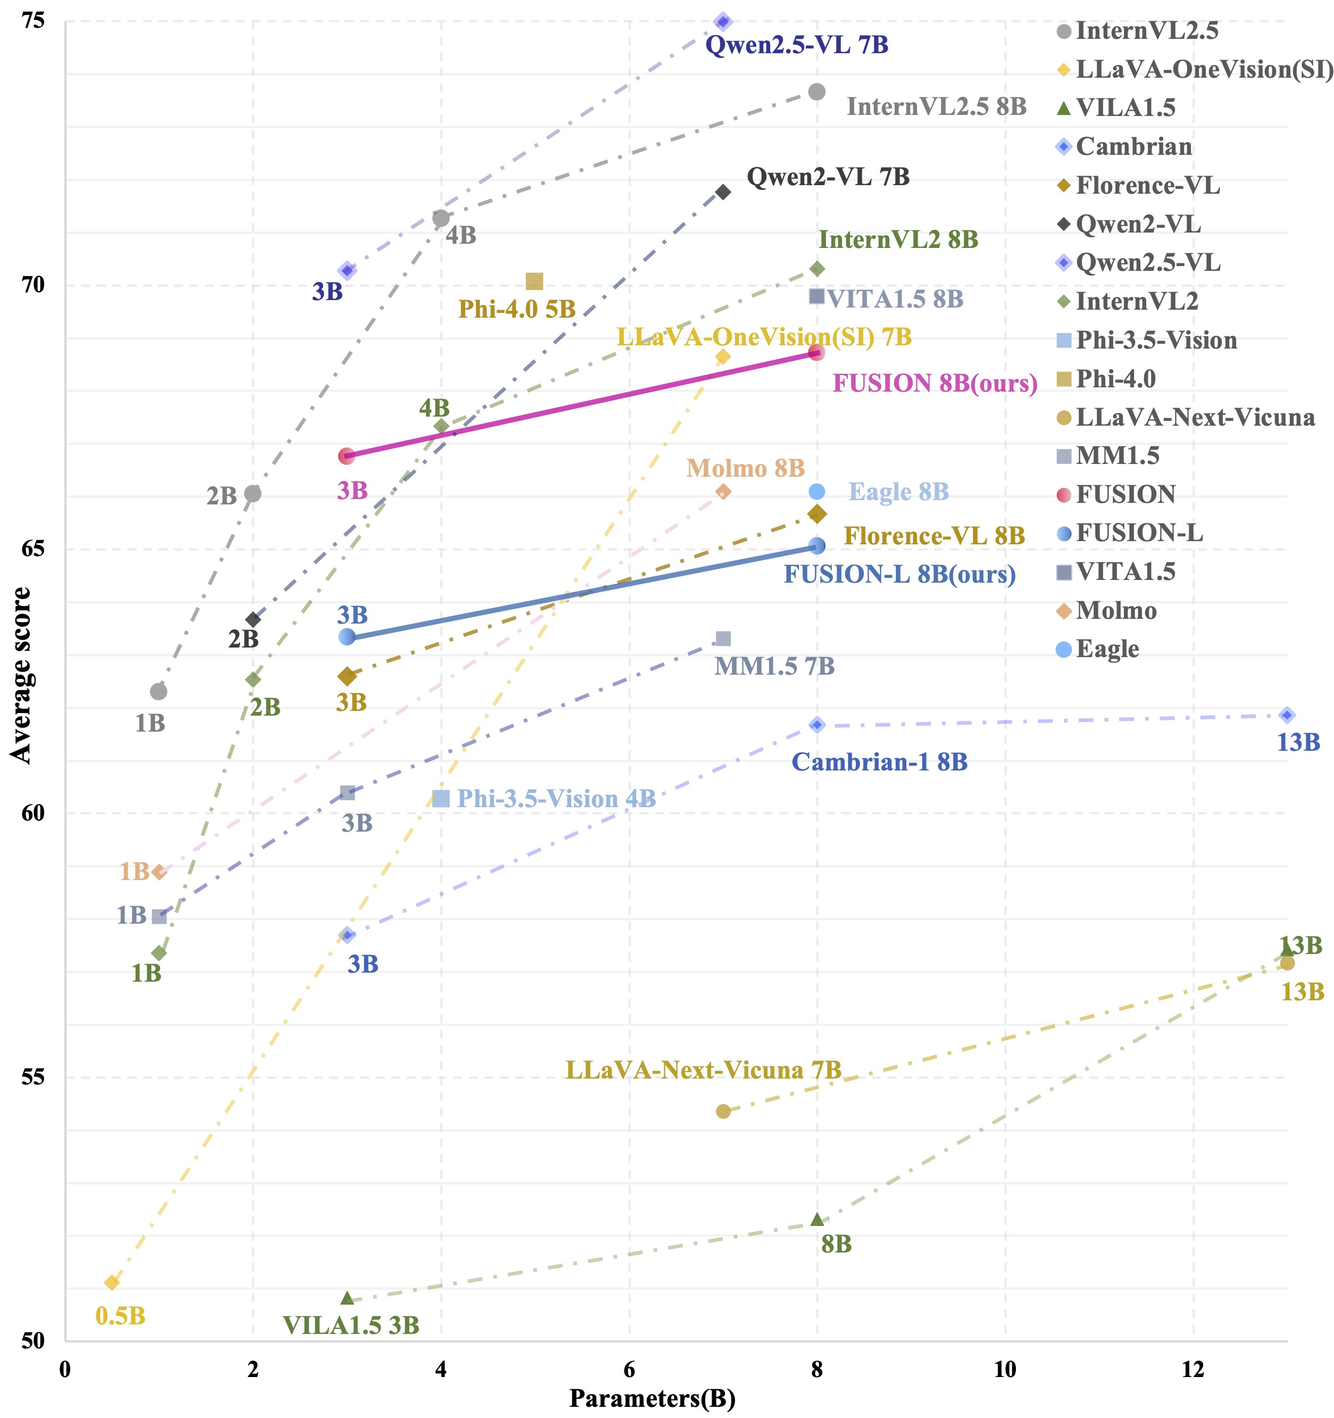
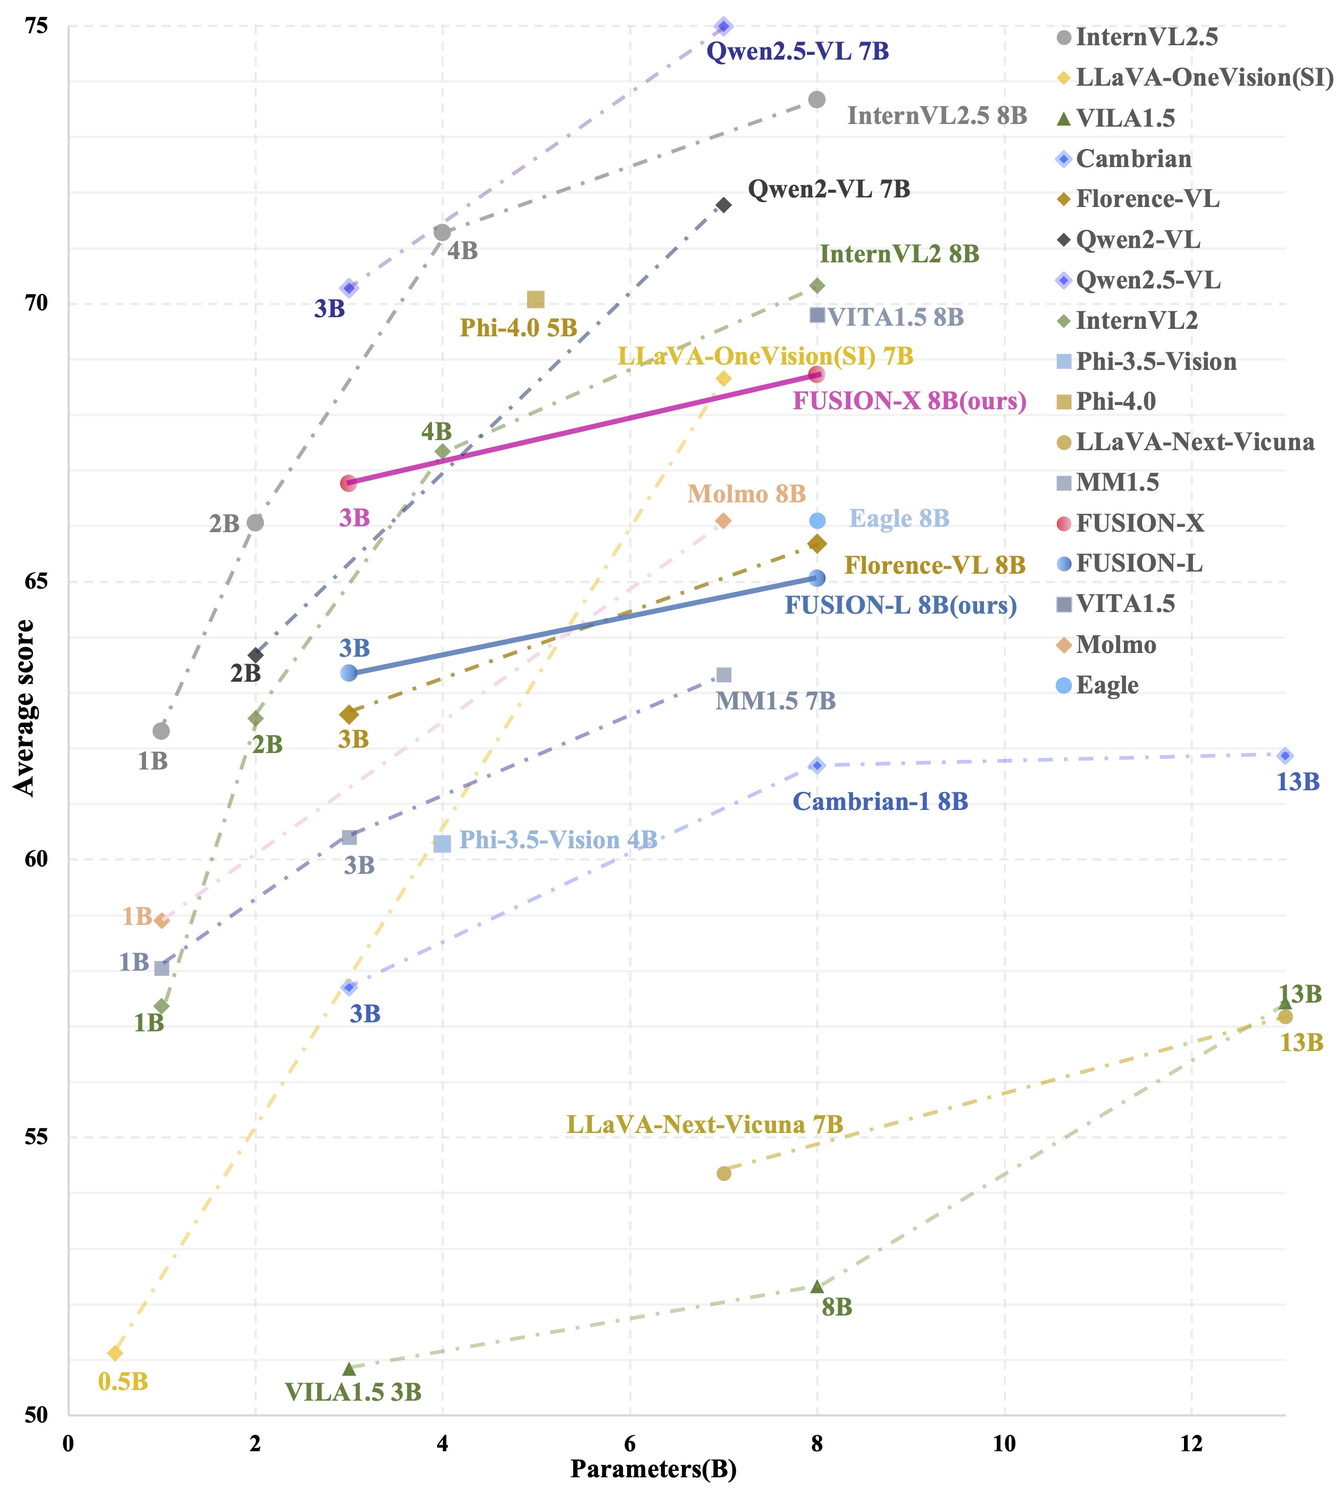
update readme

diff --git a/README.md b/README.md
@@ -1,5 +1,6 @@
 <div align="center">
 
+
 #  <img src="images/ai.png" alt="图标" width="30" height="auto">*FUSION*:<br> Fully Integration of Vision-Language Representations for Deep Cross-Modal Understanding
 
 <p>
@@ -18,24 +19,28 @@
     <img alt="HF Dataset: FUSION-12M" src="https://img.shields.io/badge/%F0%9F%A4%97%20_Data-FUSION--12M-ffc107?color=ffc107&logoColor=white" height="25" />
 </a>
 
-<div style="font-family: charter;">
-    <a target="_blank">Zheng Liu</a>,
-    <a target="_blank">Mengjie Liu</a>,
-    <a target="_blank">Jingzhou Chen</a>,
-    <br>
-    <a href="https://cuibinpku.github.io/index.html" target="_blank">Bin Cui</a>,
-    <a href="https://conghui.github.io" target="_blank">Conghui He*</a>,
-    <a href="https://zwt233.github.io" target="_blank">Wentao Zhang*</a>
-</div>
+[Zheng Liu]()<sup>1,2</sup>, 
+[Mengjie Liu]()<sup>1,2</sup>,
+[Jingzhou Chen]()<sup>1,2</sup>,  <br>
+[Bin Cui](https://cuibinpku.github.io/index.html)<sup>1</sup>, 
+[Conghui He](https://conghui.github.io/)<sup>2†</sup>, 
+[Wentao Zhang](https://zwt233.github.io)<sup>1†</sup>
+
+<sup>1</sup>Peking University, <sup>2</sup>Shanghai Artificial Intelligence Laboratory<br>
+
 </div>
 <br>
 
+> *With only 630 vision tokens, FUSION-X outperforms Cambrian-1 and Florence-VL, matching LLaVA-OneVision and nearly reaching the performance of top models like InternVL2 and Qwen2VL. Even with 300 vision tokens, FUSION-L retains 95% of its original performance, staying on par with Florence-VL.*
+
 ## Release
+
 - [04/12/25] 🚀  We have released the training and evaluation code for FUSION. For training, we provide scripts for FUSION and FUSION-X in 3B and 8B sizes, available in the [train/](https://github.com/starriver030515/FUSION/tree/main/scripts/train) folder. For evaluation, we have adapted lmms-eval and provided the corresponding model files, available in the [lmms-eval/](https://github.com/starriver030515/FUSION/tree/main/scripts/lmms-eval) folder. Additionally, we have implemented benchmark evaluation code in LLaVA format for quick evaluation, found in the [eval/](https://github.com/starriver030515/FUSION/tree/main/scripts/eval) folder.
 - [04/11/25] 🤗 We released all three stages of the FUSION and FUSION-X models in 3B and 8B sizes. Detailed information can be found in the [Model Zoo](https://github.com/starriver030515/FUSION/blob/main/docs/model_zoo.md).
 - [04/07/25] 🤗 We released the FUSION-Pretrain-10M and FUSION-Finetune-12M datasets. We summarized existing benchmarks and used our dataengine to synthesize additional data. Please see here for more: https://huggingface.co/collections/starriver030515/fusion-data-67f7ccd0b087b0aa5995cbbe
 
 ## Contents
+
 - [Installation](#installation)
 - [FUSION Weights](#fusion-weights)
 - [Demo](#demo)
@@ -86,26 +91,26 @@ Please check out our [Model Zoo](https://github.com/starriver030515/FUSION/blob/
 ### Model Performance Comparison
 
 | Model                     | # Vis Tok. | MMB_EN | MMB_CN | VizWiz | POPE | MM-Vet | MME$^P$ | MME$^C$ | Seed-Image | HallB | LLaVA_W | MMStar | MME-RW | RWQA | CV-Bench | MMVP | AI2D | MathVista | MMMU | SQA  | TextVQA | OCRBench | ChartQA | DocVQA |
-| ------------------------- | :--------- | :--- | :--------- | :----- | :--- | :----- | :------ | :------ | :--------- | :---- | :---------- | :----- | :----- | :--- | :------- | :--- | :--- | :-------- | :--- | :--- | :------ | :------- | :------ | :----- |
-| **<=4B Model Comparison** |            |      |            |        |      |        |         |         |            |       |             |        |        |      |          |      |      |           |      |      |         |          |         |        |
-| **Qwen2.5VL 3B**          | -          | 79.1 | 78.1       | -   | 85.9 | 61.4   | 1592.4  | 607.5   | 74.0       | 46.6  | -           | 56.3   | 53.1   | 65.4 | -        | -    | 81.4 | 61.2      | 51.2 | 79.3 | -       | 82.8     | 84.0    | 93.93  |
-| **InternVL2 4B**          | -          | 78.5 | 73.9       | -   | 84.6 | 50.5   | 1532.8  | 531.8   | 73.2       | 42.4  | -       | 53.9 | 52.1 | 60.5 | -     | - | 79.0 | 58.5   | 48.3 | 96.0 | 74.7  | 78.4     | 81.5    | 89.2   |
-| **DeepSeek-VL2-Tiny**     | -          | 74.6 | 72.1       | -      | -    | 52.5   | 1548.3  | 357.1   | 72.3       | 39.6 | -        | 45.9 | -   | 64.2 | -     | - | 71.6 | 53.6  | 40.7 | -    | 80.7    | 80.5     | 81.0    | 86.9   |
-| **MM1.5 3B**              | -          | -    | -          |  -   | 88.1 | 41.0   | 1478.4  | 319.6   | 72.4       | -     | 73.0       | -   | -   | 56.9 | -     | - | 65.7 | 44.4      | 37.1 | 85.8 | 76.5    | 65.7     | 74.2    | 87.5   |
-| **Phi 3.5-Vision**        | -          | 75.5 | 64.2       | 58.2       | 82.2   | 46.5 | 1473.4 | 412.1   | 69.9    | 53.3       | 68.8  | 49.0        | -   | 53.5 | 69.3 | 67.7  | 77.4 | -         | 43.3 | 89.0 | 61.1 | 59.8     | 72.0    | 75.9   |
-| **Florence-VL 3B**        | 576        | 71.6 | 60.8       | 59.1       | 88.3   | 51.0 | 1498.7 | 403.9   | 70.6    | 58.1       | 71.1  | 44.9        | -   | 60.4 | 70.2 | 64.7 | 73.8 | 52.2      | 41.8 | 84.6 | 69.1    | 63.0     | 70.7    | -       |
-| **FUSION 3B (ours)**      | 780        | 79.5 | 71.7       | 64.6       | 88.9   | 57.2 | 1595.9 | 416.5   | 74.6    | 51.4       | 84.7  | 52.4        | 41.5 | 65.1 | 76.4 | 76.0  | 78.9 | 54.3 | 44.7   | 87.1 | 71.8    | 60.0     | 75.7    | 70.9   |
-| **FUSION-X 3B (ours)**    | 620        | 80.3 | 74.8       | 66.1       | 88.7   | 60.3 | 1582.1 | 440.0   | 75.3    | 51.9       | 85.2  | 50.9        | 41.7 | 63.7 | 78.3 | 78.1  | 79.2 | 54.9 | 44.2 | 87.3 | 73.9 | 63.7 | 75.8     | 71.1 |
-| **>=7B Model Comparison** |            |      |            |            |        |      |        |         |         |            |       |             |        |        |      |          |      |      |           |      |      |         |          |         |
-| **Qwen2VL 7B**            | -          | 83.0 | 80.5       | -          | 88.4   | 62.0 | 1639.2 | 637.1   | 76.0    | 50.6       | -     | 60.7        | 57.4 | 70.1 | - | -     | 83.0 | 58.2 | 54.1 | 85.5 | 84.3 | 86.6 | 83.0  | 94.5    |
-| **InternVL2 8B**          | -          | 81.7 | 81.2       | -          | 86.9   | 54.2 | 1639.7 | 575.3   | 75.4    | 45.2       | -     | 61.5        | 53.5 | 64.4 | - | -     | 83.6 | 58.3 | 52.6  | 96.3 | 77.4 | 79.4 | 83.3  | 91.6    |
-| **LLaVA-OneVision 8B**    | -          | 81.7 | 78.0       | -          | 87.2   | 58.8 | 1626.0 | 483.0   | 74.8    | 47.5       | 86.9  | 60.9        | 57.5 | 65.5 | - | -     | 81.6 | 56.1      | 47.7 | 96.6 | 78.5    | 69.7     | 78.8  | 87.5 |
-| **MM1.5 7B**              | -          | -    | -          | -       | 88.6  | 42.2 | 1514.9 | 346.4 | 73.4 | -       | 74.2 | -        | -   | 62.5 | - | -     | 72.2 | 47.6 | 41.8  | 89.6 | 76.5    | 63.5     | 88.1  | 78.2 |
-| **Cambrian 8B**           | 576        | 75.9 | 67.9       | -       | 87.4 | 48.0 | 1547.1 | -    | 74.7    | 48.7    | 71.0 | 50.0 | -   | 64.2   | 72.2 | 51.3  | 73.0 | 49.0 | 42.7  | 80.4 | 71.7 | 62.4 | 73.3 | 77.8 |
-| **Florence-VL 8B**        | 576        | 76.2 | 69.5       | 59.1       | 89.9   | 56.3 | 1560.0 | 381.1   | 74.9    | 57.3       | 74.2  | 50.0    | -   | 64.2 | 73.4 | 73.3  | 74.2 | 55.5      | 43.7 | 85.9 | 74.2 | 63.4 | 74.7     | -    |
-| **Eagle 8B**              | 1024       | 75.9 | -       | -          | -  | - | 1559.0 | -    | 76.3    | -       | -     | -           | -   | 66.5 | - | 71.6  | 76.1 | 52.7 | 43.8   | 84.3 | 77.1 | 62.6 | 80.1  | 86.6 |
-| **FUSION 8B (ours)**      | 780        | 80.5 | 74.9      | 59.5       | 89.3   | 60.0 | 1592.3 | 396.1   | 77.2    | 52.6       | 86.9  | 52.4        | 46.0 | 65.2 | 78.7 | 78.7  | 80.4 | 56.6 | 43.1   | 89.2 | 77.3 | 63.8 | 80.3     | 78.6 |
-| **FUSION-X 8B (ours)**    | 620        | 82.0 | 76.2       | 62.9       | 88.8   | 60.0 | 1607.5 | 337.2   | 78.2    | 51.4       | 88.0  | 52.7        | 44.7 | 66.1 | 79.2 | 79.9  | 81.4 | 59.4 | 42.2   | 90.3 | 74.7 | 66.6 | 79.8     | 77.8   |
+| ------------------------- | :--------- | :----- | :----- | :----- | :--- | :----- | :------ | :------ | :--------- | :---- | :------ | :----- | :----- | :--- | :------- | :--- | :--- | :-------- | :--- | :--- | :------ | :------- | :------ | :----- |
+| **<=4B Model Comparison** |            |        |        |        |      |        |         |         |            |       |         |        |        |      |          |      |      |           |      |      |         |          |         |        |
+| **Qwen2.5VL 3B**          | -          | 79.1   | 78.1   | -      | 85.9 | 61.4   | 1592.4  | 607.5   | 74.0       | 46.6  | -       | 56.3   | 53.1   | 65.4 | -        | -    | 81.4 | 61.2      | 51.2 | 79.3 | -       | 82.8     | 84.0    | 93.93  |
+| **InternVL2 4B**          | -          | 78.5   | 73.9   | -      | 84.6 | 50.5   | 1532.8  | 531.8   | 73.2       | 42.4  | -       | 53.9   | 52.1   | 60.5 | -        | -    | 79.0 | 58.5      | 48.3 | 96.0 | 74.7    | 78.4     | 81.5    | 89.2   |
+| **DeepSeek-VL2-Tiny**     | -          | 74.6   | 72.1   | -      | -    | 52.5   | 1548.3  | 357.1   | 72.3       | 39.6  | -       | 45.9   | -      | 64.2 | -        | -    | 71.6 | 53.6      | 40.7 | -    | 80.7    | 80.5     | 81.0    | 86.9   |
+| **MM1.5 3B**              | -          | -      | -      | -      | 88.1 | 41.0   | 1478.4  | 319.6   | 72.4       | -     | 73.0    | -      | -      | 56.9 | -        | -    | 65.7 | 44.4      | 37.1 | 85.8 | 76.5    | 65.7     | 74.2    | 87.5   |
+| **Phi 3.5-Vision**        | -          | 75.5   | 64.2   | 58.2   | 82.2 | 46.5   | 1473.4  | 412.1   | 69.9       | 53.3  | 68.8    | 49.0   | -      | 53.5 | 69.3     | 67.7 | 77.4 | -         | 43.3 | 89.0 | 61.1    | 59.8     | 72.0    | 75.9   |
+| **Florence-VL 3B**        | 576        | 71.6   | 60.8   | 59.1   | 88.3 | 51.0   | 1498.7  | 403.9   | 70.6       | 58.1  | 71.1    | 44.9   | -      | 60.4 | 70.2     | 64.7 | 73.8 | 52.2      | 41.8 | 84.6 | 69.1    | 63.0     | 70.7    | -      |
+| **FUSION 3B (ours)**      | 780        | 79.5   | 71.7   | 64.6   | 88.9 | 57.2   | 1595.9  | 416.5   | 74.6       | 51.4  | 84.7    | 52.4   | 41.5   | 65.1 | 76.4     | 76.0 | 78.9 | 54.3      | 44.7 | 87.1 | 71.8    | 60.0     | 75.7    | 70.9   |
+| **FUSION-X 3B (ours)**    | 620        | 80.3   | 74.8   | 66.1   | 88.7 | 60.3   | 1582.1  | 440.0   | 75.3       | 51.9  | 85.2    | 50.9   | 41.7   | 63.7 | 78.3     | 78.1 | 79.2 | 54.9      | 44.2 | 87.3 | 73.9    | 63.7     | 75.8    | 71.1   |
+| **>=7B Model Comparison** |            |        |        |        |      |        |         |         |            |       |         |        |        |      |          |      |      |           |      |      |         |          |         |        |
+| **Qwen2VL 7B**            | -          | 83.0   | 80.5   | -      | 88.4 | 62.0   | 1639.2  | 637.1   | 76.0       | 50.6  | -       | 60.7   | 57.4   | 70.1 | -        | -    | 83.0 | 58.2      | 54.1 | 85.5 | 84.3    | 86.6     | 83.0    | 94.5   |
+| **InternVL2 8B**          | -          | 81.7   | 81.2   | -      | 86.9 | 54.2   | 1639.7  | 575.3   | 75.4       | 45.2  | -       | 61.5   | 53.5   | 64.4 | -        | -    | 83.6 | 58.3      | 52.6 | 96.3 | 77.4    | 79.4     | 83.3    | 91.6   |
+| **LLaVA-OneVision 8B**    | -          | 81.7   | 78.0   | -      | 87.2 | 58.8   | 1626.0  | 483.0   | 74.8       | 47.5  | 86.9    | 60.9   | 57.5   | 65.5 | -        | -    | 81.6 | 56.1      | 47.7 | 96.6 | 78.5    | 69.7     | 78.8    | 87.5   |
+| **MM1.5 7B**              | -          | -      | -      | -      | 88.6 | 42.2   | 1514.9  | 346.4   | 73.4       | -     | 74.2    | -      | -      | 62.5 | -        | -    | 72.2 | 47.6      | 41.8 | 89.6 | 76.5    | 63.5     | 88.1    | 78.2   |
+| **Cambrian 8B**           | 576        | 75.9   | 67.9   | -      | 87.4 | 48.0   | 1547.1  | -       | 74.7       | 48.7  | 71.0    | 50.0   | -      | 64.2 | 72.2     | 51.3 | 73.0 | 49.0      | 42.7 | 80.4 | 71.7    | 62.4     | 73.3    | 77.8   |
+| **Florence-VL 8B**        | 576        | 76.2   | 69.5   | 59.1   | 89.9 | 56.3   | 1560.0  | 381.1   | 74.9       | 57.3  | 74.2    | 50.0   | -      | 64.2 | 73.4     | 73.3 | 74.2 | 55.5      | 43.7 | 85.9 | 74.2    | 63.4     | 74.7    | -      |
+| **Eagle 8B**              | 1024       | 75.9   | -      | -      | -    | -      | 1559.0  | -       | 76.3       | -     | -       | -      | -      | 66.5 | -        | 71.6 | 76.1 | 52.7      | 43.8 | 84.3 | 77.1    | 62.6     | 80.1    | 86.6   |
+| **FUSION 8B (ours)**      | 780        | 80.5   | 74.9   | 59.5   | 89.3 | 60.0   | 1592.3  | 396.1   | 77.2       | 52.6  | 86.9    | 52.4   | 46.0   | 65.2 | 78.7     | 78.7 | 80.4 | 56.6      | 43.1 | 89.2 | 77.3    | 63.8     | 80.3    | 78.6   |
+| **FUSION-X 8B (ours)**    | 620        | 82.0   | 76.2   | 62.9   | 88.8 | 60.0   | 1607.5  | 337.2   | 78.2       | 51.4  | 88.0    | 52.7   | 44.7   | 66.1 | 79.2     | 79.9 | 81.4 | 59.4      | 42.2 | 90.3 | 74.7    | 66.6     | 79.8    | 77.8   |
 
 *For the full table, please refer to our [FUSION paper](https://arxiv.org/).*
 
@@ -113,6 +118,7 @@ Please check out our [Model Zoo](https://github.com/starriver030515/FUSION/blob/
 
 <details>
 <summary>Example Code</summary>
+
 
 ```Python
 from fusion.model.builder import load_pretrained_model
@@ -237,30 +243,33 @@ python -m fusion.serve.cli \
 
 
 ## FUSION Dataset
+
 <p align="center">
     <img src="images/fusion_data.jpg" alt="FUSION-Data" width="900" height="auto">
 </p>
 
+
 The FUSION Dataset consists of large-scale, diverse multimodal data, designed for pretraining and fine-tuning in various tasks involving both vision and language understanding. The dataset includes two main versions:
 
-	•	**FUSION-Pretrain-10M**
+   •   **FUSION-Pretrain-10M**
 
-	•	**FUSION-Finetune-12M**
+   •   **FUSION-Finetune-12M**
 
 These datasets are built upon the Cambrian-1 7M dataset by significantly expanding both the quantity and variety of data. They are designed to improve model performance in tasks such as image captioning, visual reasoning, and logical deduction.
 
 Both FUSION-Pretrain-10M and FUSION-Finetune-12M datasets are available on [FUSION-Data](https://huggingface.co/collections/starriver030515/fusion-data-67f7ccd0b087b0aa5995cbbe).
 
 ### Data Collection
+
 FUSION-Pretrain-10M is primarily built upon high-quality image-caption datasets, including LLaVA-558K, ShareCaptioner-1.2M, and PixelProse-9M. 
 
 FUSION-Finetune-12M leverages a diverse range of benchmark datasets spanning categories such as OCR, Science, and General QA. It also introduces additional datasets to improve model performance in domains such as math and visual reasoning including MMathCot and MulBerry.
 
 The datasets also includes 4 million synthetic samples generated using our **Language-Driven QA Synthesis pipeline**, with the goal of improving instruction alignment and visual understanding. These 4 million synthetic samples are divided into:
 
-	•	2M used for pretraining (PT)
+   •   2M used for pretraining (PT)
 
-	•	2M used for supervised fine-tuning (SFT)
+   •   2M used for supervised fine-tuning (SFT)
 
 ### Synthesized Language-Driven QA Dataset
 
@@ -269,43 +278,44 @@ The datasets also includes 4 million synthetic samples generated using our **Lan
 </p>
 
 
+
 To increase diversity and instruction alignment, **Language-Driven QA Synthesis pipeline** is used to generate synthesized data. The process includes the following steps:
 
-	1.	**Caption Pool Collection**: A large pool of image captions is assembled from diverse datasets.
+      1.  **Caption Pool Collection**: A large pool of image captions is assembled from diverse datasets.
 
-	2.	**Description Expansion**: Captions are expanded into detailed descriptions using LLaMA3.1-70B.
+      2.  **Description Expansion**: Captions are expanded into detailed descriptions using LLaMA3.1-70B.
 
-	3.	**Image Generation**: The expanded descriptions are used as prompts for FLUX.1 Dev to synthesize corresponding images.
+      3.  **Image Generation**: The expanded descriptions are used as prompts for FLUX.1 Dev to synthesize corresponding images.
 
-	4.	**QA Generation**: Descriptions and images are passed through LLaMA3.1-70B to generate high-quality Q&A pairs.
+      4.  **QA Generation**: Descriptions and images are passed through LLaMA3.1-70B to generate high-quality Q&A pairs.
 
 #### **Types of Synthetic Alignment Datasets**
 
 The synthesized alignment data covers five primary categories:
 
-	•	**SynthColor**: Describing and differentiating colors in the image.
+   •   **SynthColor**: Describing and differentiating colors in the image.
 
-	•	**SynthCount**: Counting and describing the number of objects in the image.
+   •   **SynthCount**: Counting and describing the number of objects in the image.
 
-	•	**SynthSpatial**: Spatial relations between objects (e.g., left/right, above/below).
+   •   **SynthSpatial**: Spatial relations between objects (e.g., left/right, above/below).
 
-	•	**SynthScene**: General scene or landscape descriptions.
+   •   **SynthScene**: General scene or landscape descriptions.
 
-	•	**SynthText**: Identifying and describing visible text in the image.
+   •   **SynthText**: Identifying and describing visible text in the image.
 
 #### Types of Synthetic Instruction Datasets
 
 The synthesized instruction data covers five primary categories:
 
-	•	**SynthMultiChoice QA**: Multi-turn dialogues with multiple-choice questions to teach the model to distinguish closely related options.
+   •   **SynthMultiChoice QA**: Multi-turn dialogues with multiple-choice questions to teach the model to distinguish closely related options.
 
-	•	**SynthConvShort QA**: Multi-turn dialogues with short answers focusing on fast key information extraction.
+   •   **SynthConvShort QA**: Multi-turn dialogues with short answers focusing on fast key information extraction.
 
-	•	**SynthConvLong QA**: Multi-turn dialogues with long-form answers to encourage detailed explanations.
+   •   **SynthConvLong QA**: Multi-turn dialogues with long-form answers to encourage detailed explanations.
 
-	•	**SynthContrastShort QA & SynthContrastLong QA**: Dialogues comparing two similar images to train the model to observe subtle visual differences.
+   •   **SynthContrastShort QA & SynthContrastLong QA**: Dialogues comparing two similar images to train the model to observe subtle visual differences.
 
-	•	**SynthReasoning QA**: Single-turn visual reasoning questions that require inference from visual inputs.
+   •   **SynthReasoning QA**: Single-turn visual reasoning questions that require inference from visual inputs.
 
 #### Data Filtering and Diversity Generation
 
@@ -381,12 +391,12 @@ Both hyperparameters used in pretraining and finetuning are provided below.
 
 #### 1. Foundational Semantic Alignment
 
-| Model Name | Base LLM |      Base Vision Encoder      | Global Batch Size | Vision Tower Learning Rate | Vision Tower Learning Rate | Epochs | Max length |
-|-------------------|:------------------:|:-------------:|:-----------------:|:------:|:----------:|:-----------------:|-------------------|
-| FUSION 3B | Phi3.5 3B |   siglip-so400m-patch14-384   |        256        |            2e-5            |            2e-5            |   1    | 2048 |
-| FUSION- X 3B | Phi3.5 3B | siglip2-giant-opt-patch16-384 |        256        |            2e-5            |            2e-5            |   1    | 2048 |
-| FUSION 8B | LLaMA-3.1 8B   |   siglip-so400m-patch14-384   |        256        |            2e-5            |            2e-5            |   1    | 2048 |
-| FUSION-X 8B | LLaMA-3.1 8B | siglip2-giant-opt-patch16-384 |        256        |            2e-5            |            2e-5            |   1    | 2048 |
+| Model Name   |   Base LLM   |      Base Vision Encoder      | Global Batch Size | Vision Tower Learning Rate | Vision Tower Learning Rate | Epochs | Max length |
+| ------------ | :----------: | :---------------------------: | :---------------: | :------------------------: | :------------------------: | :----: | ---------- |
+| FUSION 3B    |  Phi3.5 3B   |   siglip-so400m-patch14-384   |        256        |            2e-5            |            2e-5            |   1    | 2048       |
+| FUSION- X 3B |  Phi3.5 3B   | siglip2-giant-opt-patch16-384 |        256        |            2e-5            |            2e-5            |   1    | 2048       |
+| FUSION 8B    | LLaMA-3.1 8B |   siglip-so400m-patch14-384   |        256        |            2e-5            |            2e-5            |   1    | 2048       |
+| FUSION-X 8B  | LLaMA-3.1 8B | siglip2-giant-opt-patch16-384 |        256        |            2e-5            |            2e-5            |   1    | 2048       |
 
 #### 2. Contextual Multimodal Fusion
 
@@ -461,12 +471,14 @@ We provide sample training scripts in:
 - `--stride_of_vision_sampler_layers`: The stride of the interaction layers module insertion inside the LLM.
 
 ## Evaluation
+
 We have released our evaluation code in the [`eval/`](https://github.com/starriver030515/FUSION/tree/main/scripts/eval) subfolder. Please see [evaluation.md](https://github.com/starriver030515/FUSION/blob/main/docs/evaluation.md) for more details.
 
 
 ## Citation
 
 If you find Cambrian useful for your research and applications, please cite using this BibTeX:
+
 ```bibtex
 TBD~
 ```
@@ -482,4 +494,3 @@ TBD~
 
 [![Code License](https://img.shields.io/badge/Code%20License-Apache_2.0-green.svg)](https://github.com/cambrian-mllm/cambrian/blob/main/LICENSE)<br>
 **Usage and License Notices**: This project utilizes certain datasets and checkpoints that are subject to their respective original licenses. Users must comply with all terms and conditions of these original licenses, including but not limited to the [OpenAI Terms of Use](https://openai.com/policies/terms-of-use) for the dataset and the specific licenses for base language models for checkpoints trained using the dataset (e.g. [Llama community license](https://ai.meta.com/llama/license/) for LLaMA-3.1, and Phi3.5). This project does not impose any additional constraints beyond those stipulated in the original licenses. Furthermore, users are reminded to ensure that their use of the dataset and checkpoints is in compliance with all applicable laws and regulations.
-
